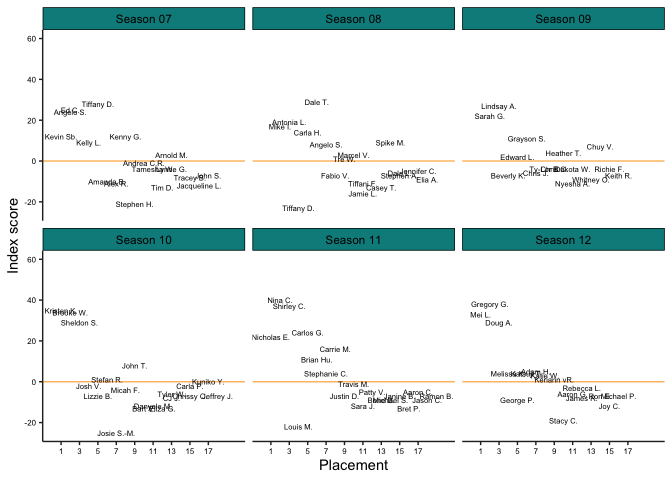
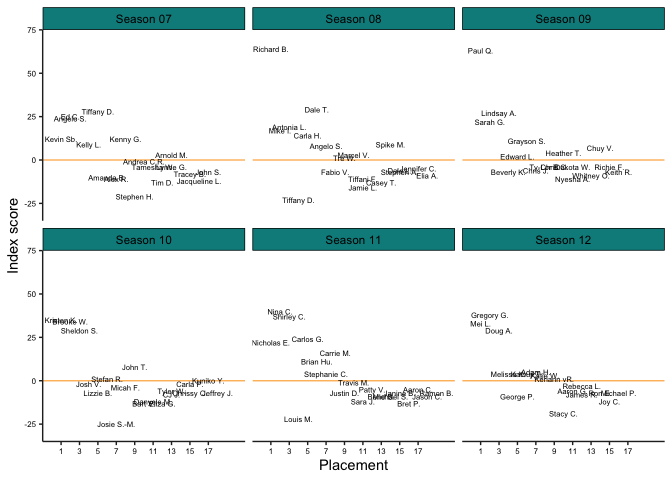
Update axes on visualizations in readme

diff --git a/README.md b/README.md
@@ -412,7 +412,7 @@ library(dplyr)
       labs(title=paste0("Top Chef Weighted Index Scores at the End of Seasons")
            ,subtitle="Comparing All Chefs Across All Seasons\n")+
       ylab("Index Score") + xlab("Placement") +
-      scale_y_continuous(lim=c(-25,60)) +
+      scale_y_continuous(lim=c(-30,70)) +
       scale_x_continuous(lim=c(0,20),breaks=seq(1,18,2),labels = seq(1,18,2)) +
       theme(panel.grid = element_blank() 
             ,axis.text.x=element_text(size=6,color="black")
@@ -431,7 +431,7 @@ library(dplyr)
         geom_text(hjust=0.5,size=2) +
       theme_minimal() +
       ylab("Index score") + xlab("Placement") +
-      scale_y_continuous(lim=c(-25,60)) +
+      scale_y_continuous(lim=c(-30,70)) +
       scale_x_continuous(lim=c(0,20),breaks=seq(1,18,2),labels = seq(1,18,2)) +
       theme(panel.grid = element_blank() 
             ,axis.text.x=element_text(size=6,color="black")
@@ -449,7 +449,7 @@ library(dplyr)
         geom_text(hjust=0.5,size=2) +
         theme_minimal() +
         ylab("Index Score") + xlab("Placement") +
-        scale_y_continuous(lim=c(-25,60)) +
+        scale_y_continuous(lim=c(-30,70)) +
         scale_x_continuous(lim=c(0,20),breaks=seq(1,18,2),labels = seq(1,18,2)) +
         theme(panel.grid = element_blank() 
               ,axis.text.x=element_text(size=6,color="black")
